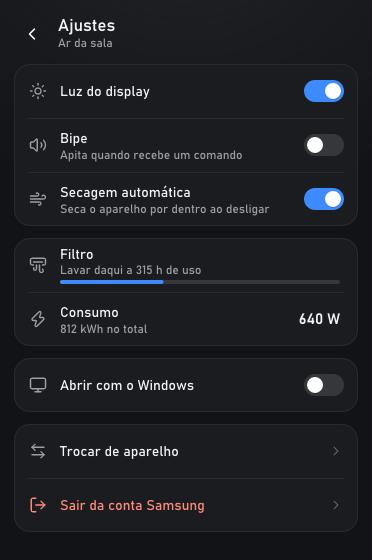
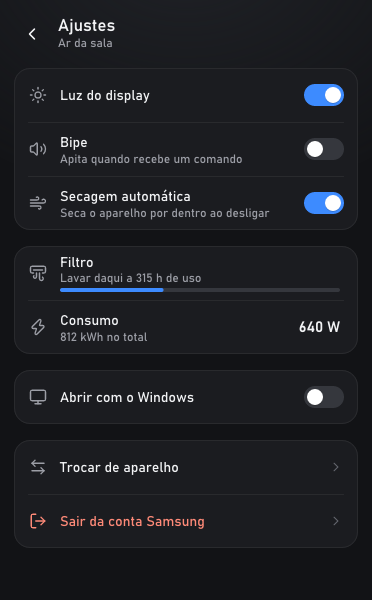
Give the unit more depth and the panel more room
Raise the panel to 600 points so the unit no longer touches the header
chips and its air fades out above the setpoint and the steppers.

Draw the unit with a wall shadow, the top face, a gloss over the front,
rounder ends, a blade that shows its underside as it opens and the
WindFree mark beside the display digits.

diff --git a/src/scene.rs b/src/scene.rs
@@ -152,11 +152,21 @@ impl Scene {
         let (x, y, width, height) = BODY;
         let glow = look.tint.alpha(if look.light { 0.16 } else { 0.22 } * on);
         canvas.fill(&ellipse(160.0, 140.0, 128.0, 34.0), &paint(radial(160.0, 140.0, 128.0, 34.0, &[(0.0, glow), (1.0, glow.alpha(0.0))])));
+
+        // The unit hangs on a wall: a soft shadow behind it and a contact shadow under it.
+        let wall = if look.light { 0.05 } else { 0.12 };
+        for (grow, alpha) in [(9.0, 0.5), (5.0, 0.8), (2.0, 1.0)] {
+            let shadow = Rgba(0, 0, 0, (255.0 * wall * alpha) as u8);
+            canvas.fill(&rounded(x - grow, y + 3.0 - grow * 0.4, width + grow * 2.0, height + grow * 1.6, 14.0 + grow), &solid(shadow));
+        }
         let contact = Rgba(0, 0, 0, if look.light { 60 } else { 150 });
-        canvas.fill(&ellipse(160.0, 109.0, 124.0, 8.0), &paint(radial(160.0, 109.0, 124.0, 8.0, &[(0.0, contact), (1.0, contact.alpha(0.0))])));
+        canvas.fill(&ellipse(160.0, 110.0, 124.0, 8.0), &paint(radial(160.0, 110.0, 124.0, 8.0, &[(0.0, contact), (1.0, contact.alpha(0.0))])));
 
         // Off dims the body a little, like a unit with the room lights low.
         let shade = |color: u32| Rgba::hex(color).mix(Rgba(24, 26, 30, 255), 0.14 * (1.0 - on));
+
+        // The top face, seen from slightly below, peeks over the front.
+        canvas.fill(&rounded(x + 9.0, y - 4.5, width - 18.0, 9.0, 4.5), &paint(linear((0.0, y - 4.5), (0.0, y + 2.0), &[(0.0, shade(0xd9dee4)), (1.0, shade(0xf7f9fb))])));
 
         // Underside first, so the front panel sits over its edge.
         let mut under = PathBuilder::new();
@@ -167,26 +177,30 @@ impl Scene {
         under.cubic_to(x + 12.0, 103.0, x + 6.0, 98.0, x + 6.0, 90.0);
         under.close();
         if let Some(path) = under.finish() {
-            canvas.fill(&path, &paint(linear((0.0, 90.0), (0.0, 104.5), &[(0.0, shade(0xcdd3da)), (1.0, shade(0xa3acb6))])));
+            canvas.fill(&path, &paint(linear((0.0, 90.0), (0.0, 104.5), &[(0.0, shade(0xcdd3da)), (1.0, shade(0x9ea7b2))])));
         }
         canvas.fill(&rounded(70.0, 97.0, 180.0, 6.5, 3.25), &paint(linear((0.0, 97.0), (0.0, 103.5), &[(0.0, Rgba::hex(0x07090b)), (1.0, Rgba::hex(0x2a3038))])));
 
-        let body = rounded(x, y, width, height, 14.0);
-        canvas.fill(&body, &paint(linear((0.0, y), (0.0, y + height), &[(0.0, shade(0xffffff)), (0.5, shade(0xf5f7f9)), (1.0, shade(0xe6eaee))])));
+        let body = rounded(x, y, width, height, 15.0);
+        canvas.fill(&body, &paint(linear((0.0, y), (0.0, y + height), &[(0.0, shade(0xffffff)), (0.45, shade(0xf6f8fa)), (1.0, shade(0xe3e8ed))])));
+        // Rounded ends, a gloss across the upper front and the curve into the base.
         let edge = Rgba(20, 26, 34, 0);
-        canvas.fill(&body, &paint(linear((x, 0.0), (x + width, 0.0), &[(0.0, edge.with_alpha(40)), (0.07, edge), (0.93, edge), (1.0, edge.with_alpha(44))])));
-        canvas.stroke(&rounded(x + 0.4, y + 0.4, width - 0.8, height - 0.8, 13.6), &solid(Rgba(0, 0, 0, 20)), 0.8);
+        canvas.fill(&body, &paint(linear((x, 0.0), (x + width, 0.0), &[(0.0, edge.with_alpha(58)), (0.1, edge), (0.9, edge), (1.0, edge.with_alpha(62))])));
+        let gloss = Rgba(255, 255, 255, 0);
+        canvas.fill(&body, &paint(linear((x, y), (x + width * 0.55, y + height), &[(0.0, gloss.with_alpha(150)), (0.45, gloss.with_alpha(40)), (0.6, gloss)])));
+        canvas.fill(&body, &paint(linear((0.0, y + height - 16.0), (0.0, y + height), &[(0.0, edge), (1.0, edge.with_alpha(30))])));
+        canvas.stroke(&rounded(x + 0.4, y + 0.4, width - 0.8, height - 0.8, 14.6), &solid(Rgba(0, 0, 0, 22)), 0.8);
 
         // Top cover: a bright lip and the seam above the front panel.
         let thin = |width: f32| Stroke { width, line_cap: LineCap::Round, ..Stroke::default() };
         if let Some(path) = line((x + 14.0, y + 1.4), (x + width - 14.0, y + 1.4)) {
-            canvas.stroke_with(&path, &solid(Rgba(255, 255, 255, 230)), &thin(1.4), Transform::identity());
+            canvas.stroke_with(&path, &solid(Rgba(255, 255, 255, 235)), &thin(1.4), Transform::identity());
         }
         if let Some(path) = line((x + 6.0, SEAM_Y), (x + width - 6.0, SEAM_Y)) {
-            canvas.stroke_with(&path, &solid(shade(0xd5dbe1)), &thin(0.9), Transform::identity());
+            canvas.stroke_with(&path, &solid(shade(0xd2d8df)), &thin(0.9), Transform::identity());
         }
         if let Some(path) = line((x + 6.0, SEAM_Y + 1.0), (x + width - 6.0, SEAM_Y + 1.0)) {
-            canvas.stroke_with(&path, &solid(Rgba(255, 255, 255, 200)), &thin(0.8), Transform::identity());
+            canvas.stroke_with(&path, &solid(Rgba(255, 255, 255, 210)), &thin(0.8), Transform::identity());
         }
 
         // The micro-perforated front that WindFree breathes through.
@@ -194,21 +208,32 @@ impl Scene {
         let hole_color = Rgba::hex(0x9aa4ae).mix(tint_holes, 0.85 * look.windfree * on);
         self.draw_holes(canvas, hole_color);
 
-        // Display on the right of the front, as on the real units.
+        // Display on the right of the front, as on the real units, with the WindFree mark when it runs.
         if let Some(text) = &look.display {
             let glow = Rgba::hex(0xeaf6ff).mix(look.tint, 0.55).alpha(on);
-            canvas.fill(&ellipse(244.0, 42.5, 16.0, 7.0), &paint(radial(244.0, 42.5, 16.0, 7.0, &[(0.0, glow.alpha(0.22)), (1.0, glow.alpha(0.0))])));
+            canvas.fill(&ellipse(242.0, 42.5, 18.0, 7.0), &paint(radial(242.0, 42.5, 18.0, 7.0, &[(0.0, glow.alpha(0.22)), (1.0, glow.alpha(0.0))])));
             canvas.text(text, Style::Semibold, 10.0, 252.0, 46.0, glow, Align::Right);
-            canvas.fill(&ellipse(229.0, 42.5, 1.3, 1.3), &solid(glow.alpha(0.8)));
+            let mark = glow.alpha(look.windfree);
+            for (index, length) in [5.0, 3.5, 5.0].into_iter().enumerate() {
+                let row = 40.2 + index as f32 * 2.2;
+                if let Some(path) = line((225.0, row), (225.0 + length, row)) {
+                    canvas.stroke_with(&path, &solid(mark), &thin(0.9), Transform::identity());
+                }
+            }
         }
 
-        // The blade opens for normal airflow and stays shut in WindFree.
+        // The blade swings down for normal airflow and stays shut in WindFree.
         let open = on * (1.0 - look.windfree);
+        let drop = 6.5 * open;
+        if open > 0.01 {
+            // Its underside shows as it tilts.
+            canvas.fill(&rounded(70.0, BLADE_TOP + 2.0 + drop, 180.0, 3.5 * open + 1.0, 2.0), &solid(shade(0xaab2bc).alpha(open)));
+        }
         let blade = Transform::from_translate(160.0, BLADE_TOP)
-            .pre_translate(0.0, 6.5 * open)
+            .pre_translate(0.0, drop)
             .pre_scale(1.0, 1.0 - 0.58 * open)
             .pre_translate(-160.0, -BLADE_TOP);
-        canvas.fill_at(&rounded(68.0, BLADE_TOP, 184.0, 8.5, 4.25), &paint(linear((0.0, BLADE_TOP), (0.0, BLADE_TOP + 8.5), &[(0.0, shade(0xf0f3f6)), (1.0, shade(0xd3d9df))])), blade);
+        canvas.fill_at(&rounded(68.0, BLADE_TOP, 184.0, 8.5, 4.25), &paint(linear((0.0, BLADE_TOP), (0.0, BLADE_TOP + 8.5), &[(0.0, shade(0xf4f6f8)), (1.0, shade(0xd0d6dd))])), blade);
     }
 
     fn draw_holes(&mut self, canvas: &mut Canvas, color: Rgba) {

diff --git a/src/panel.rs b/src/panel.rs
@@ -9,7 +9,7 @@ use crate::gfx::{Align, Canvas, Rgba, Style, circle, fonts, paint, radial, round
 use crate::scene::{self, Scene};
 
 pub const WIDTH: f32 = 372.0;
-pub const HEIGHT: f32 = 560.0;
+pub const HEIGHT: f32 = 600.0;
 const TEMP_MIN: i64 = 16;
 const TEMP_MAX: i64 = 30;
 
@@ -79,27 +79,29 @@ fn on_accent(accent: Rgba) -> Rgba {
 }
 
 const HEADER_POWER: (f32, f32) = (334.0, 38.0);
-const HERO_Y: f32 = 62.0;
-const HERO_HEIGHT: f32 = 140.0;
-const CLIMATE_Y: f32 = 236.0;
+// The unit sits below the header with room to breathe, and its air ends above the setpoint.
+const HERO_Y: f32 = 74.0;
+const HERO_HEIGHT: f32 = 150.0;
+const CLIMATE_Y: f32 = 278.0;
 const TEMP_DOWN: (f32, f32) = (42.0, CLIMATE_Y);
 const TEMP_UP: (f32, f32) = (330.0, CLIMATE_Y);
 /// The slider's track runs between these x and sits on this y.
-const SLIDER: (f32, f32, f32) = (34.0, 338.0, 288.0);
-const SLIDER_HIT: (f32, f32, f32, f32) = (18.0, 270.0, 336.0, 36.0);
-const MODES: (f32, f32, f32, f32) = (14.0, 328.0, 344.0, 62.0);
-const TILES_Y: f32 = 402.0;
+const SLIDER: (f32, f32, f32) = (34.0, 338.0, 330.0);
+const SLIDER_HIT: (f32, f32, f32, f32) = (18.0, 312.0, 336.0, 36.0);
+const MODES: (f32, f32, f32, f32) = (14.0, 370.0, 344.0, 62.0);
+const TILES_Y: f32 = 444.0;
 const TILE: (f32, f32, f32) = (80.0, 84.0, 8.0);
-const STATUS_Y: f32 = 527.0;
+const STATUS_Y: f32 = 568.0;
 const SETTINGS_BUTTON: (f32, f32) = (336.0, STATUS_Y);
 const BACK_BUTTON: (f32, f32) = (32.0, 34.0);
 const ROW_HEIGHT: f32 = 54.0;
 const MENU_WIDTH: f32 = 196.0;
 const MENU_ROW: f32 = 36.0;
-const PRIMARY: (f32, f32, f32, f32) = (18.0, 300.0, 336.0, 48.0);
-const SECONDARY_LEFT: (f32, f32, f32, f32) = (14.0, 364.0, 168.0, 46.0);
-const SECONDARY_RIGHT: (f32, f32, f32, f32) = (190.0, 364.0, 168.0, 46.0);
-const SECONDARY_WIDE: (f32, f32, f32, f32) = (14.0, 364.0, 344.0, 46.0);
+const CONNECT_TITLE_Y: f32 = 276.0;
+const PRIMARY: (f32, f32, f32, f32) = (18.0, 340.0, 336.0, 48.0);
+const SECONDARY_LEFT: (f32, f32, f32, f32) = (14.0, 404.0, 168.0, 46.0);
+const SECONDARY_RIGHT: (f32, f32, f32, f32) = (190.0, 404.0, 168.0, 46.0);
+const SECONDARY_WIDE: (f32, f32, f32, f32) = (14.0, 404.0, 344.0, 46.0);
 const DEVICE_ROWS: usize = 4;
 
 struct Choice {
@@ -334,16 +336,16 @@ fn tile_rect(index: usize) -> (f32, f32, f32, f32) {
 fn settings_row(index: usize) -> (f32, f32, f32, f32) {
     // Three switches, then filter and energy, then autostart, then the account.
     let y = match index {
-        0..=2 => 64.0 + index as f32 * ROW_HEIGHT,
-        3 | 4 => 238.0 + (index - 3) as f32 * ROW_HEIGHT,
-        5 => 358.0,
-        _ => 424.0 + (index - 6) as f32 * ROW_HEIGHT,
+        0..=2 => 68.0 + index as f32 * ROW_HEIGHT,
+        3 | 4 => 246.0 + (index - 3) as f32 * ROW_HEIGHT,
+        5 => 370.0,
+        _ => 440.0 + (index - 6) as f32 * ROW_HEIGHT,
     };
     (14.0, y, 344.0, ROW_HEIGHT)
 }
 
 fn device_row(index: usize) -> (f32, f32, f32, f32) {
-    (14.0, PRIMARY.1 + index as f32 * 58.0, 344.0, 50.0)
+    (14.0, PRIMARY.1 + index as f32 * 54.0, 344.0, 48.0)
 }
 
 pub struct Panel {
@@ -974,7 +976,7 @@ impl Panel {
         if loading {
             // Controls wait for the first reading, under a veil of the background.
             let veil = solid(p.background.alpha(0.6));
-            for rect in [(18.0, 212.0, 336.0, 48.0), SLIDER_HIT, MODES, (14.0, TILES_Y, 344.0, TILE.1)] {
+            for rect in [(18.0, CLIMATE_Y - 24.0, 336.0, 48.0), SLIDER_HIT, MODES, (14.0, TILES_Y, 344.0, TILE.1)] {
                 canvas.fill(&rounded(rect.0 - 2.0, rect.1 - 2.0, rect.2 + 4.0, rect.3 + 4.0, 16.0), &veil);
             }
         }
@@ -1283,14 +1285,14 @@ impl Panel {
             Screen::Choose => ("Escolha o ar-condicionado", ["Sua conta tem mais de um aparelho.", "Dá para trocar depois nos ajustes."]),
             _ => ("Nenhum ar-condicionado", ["Esta conta não tem um ar-condicionado no", "SmartThings. Confira no app do celular."]),
         };
-        canvas.text(title, Style::Semibold, 19.0, WIDTH / 2.0, 236.0, p.text, Align::Center);
-        canvas.text(body[0], Style::Regular, 13.0, WIDTH / 2.0, 260.0, p.muted, Align::Center);
-        canvas.text(body[1], Style::Regular, 13.0, WIDTH / 2.0, 278.0, p.muted, Align::Center);
+        canvas.text(title, Style::Semibold, 19.0, WIDTH / 2.0, CONNECT_TITLE_Y, p.text, Align::Center);
+        canvas.text(body[0], Style::Regular, 13.0, WIDTH / 2.0, CONNECT_TITLE_Y + 24.0, p.muted, Align::Center);
+        canvas.text(body[1], Style::Regular, 13.0, WIDTH / 2.0, CONNECT_TITLE_Y + 42.0, p.muted, Align::Center);
 
         let (footer_icon, footer, footer_color) = match screen {
             Screen::SignIn => {
                 self.draw_button(canvas, PRIMARY, Some("log-in"), "Entrar com a conta Samsung", true, Hit::Primary);
-                let (x, y, width, _) = (14.0, 364.0, 344.0, 0.0);
+                let (x, y, width, _) = SECONDARY_WIDE;
                 canvas.card(x, y, width, 2.0 * ROW_HEIGHT, 16.0, p.card, p.line);
                 canvas.fill(&rounded(x + 14.0, y + ROW_HEIGHT, width - 28.0, 1.0, 0.5), &solid(p.line));
                 for (index, (icon, row_title, note)) in [
